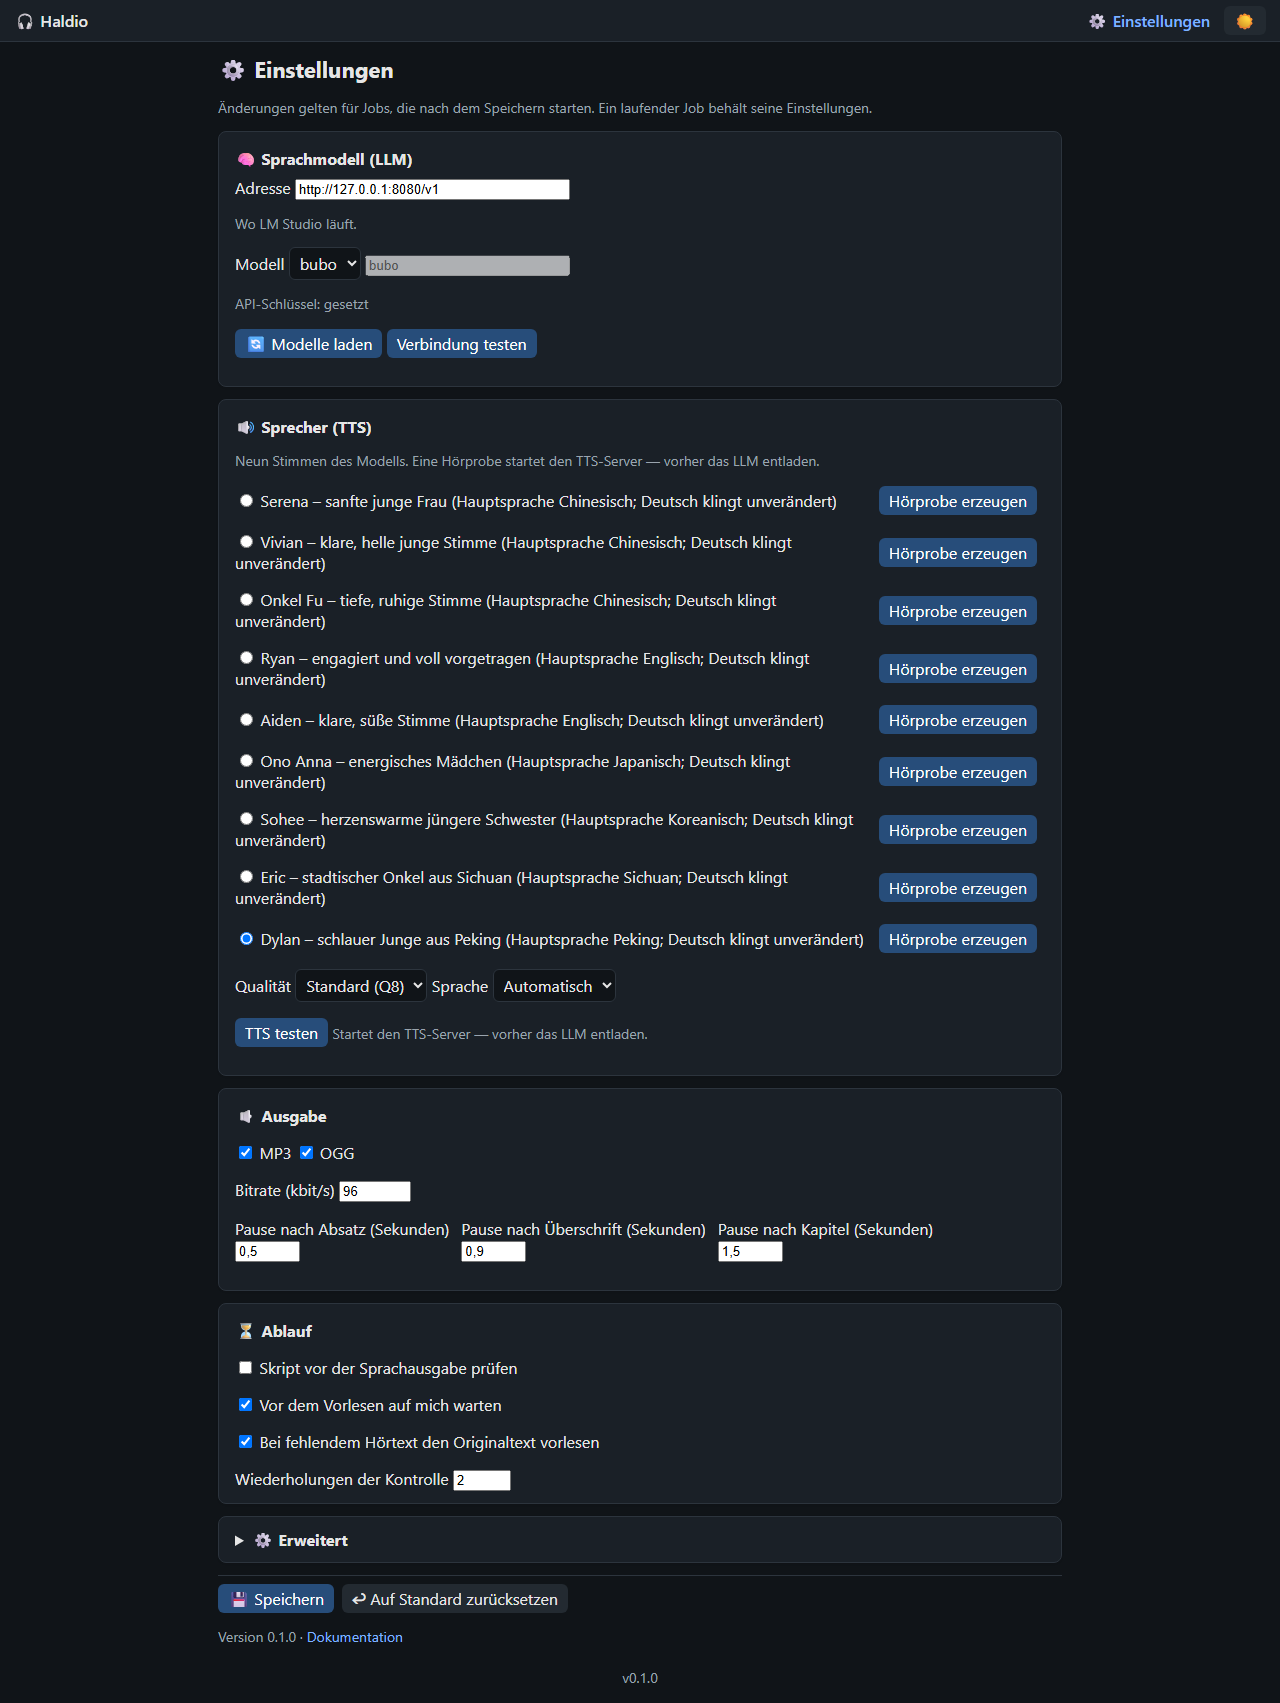
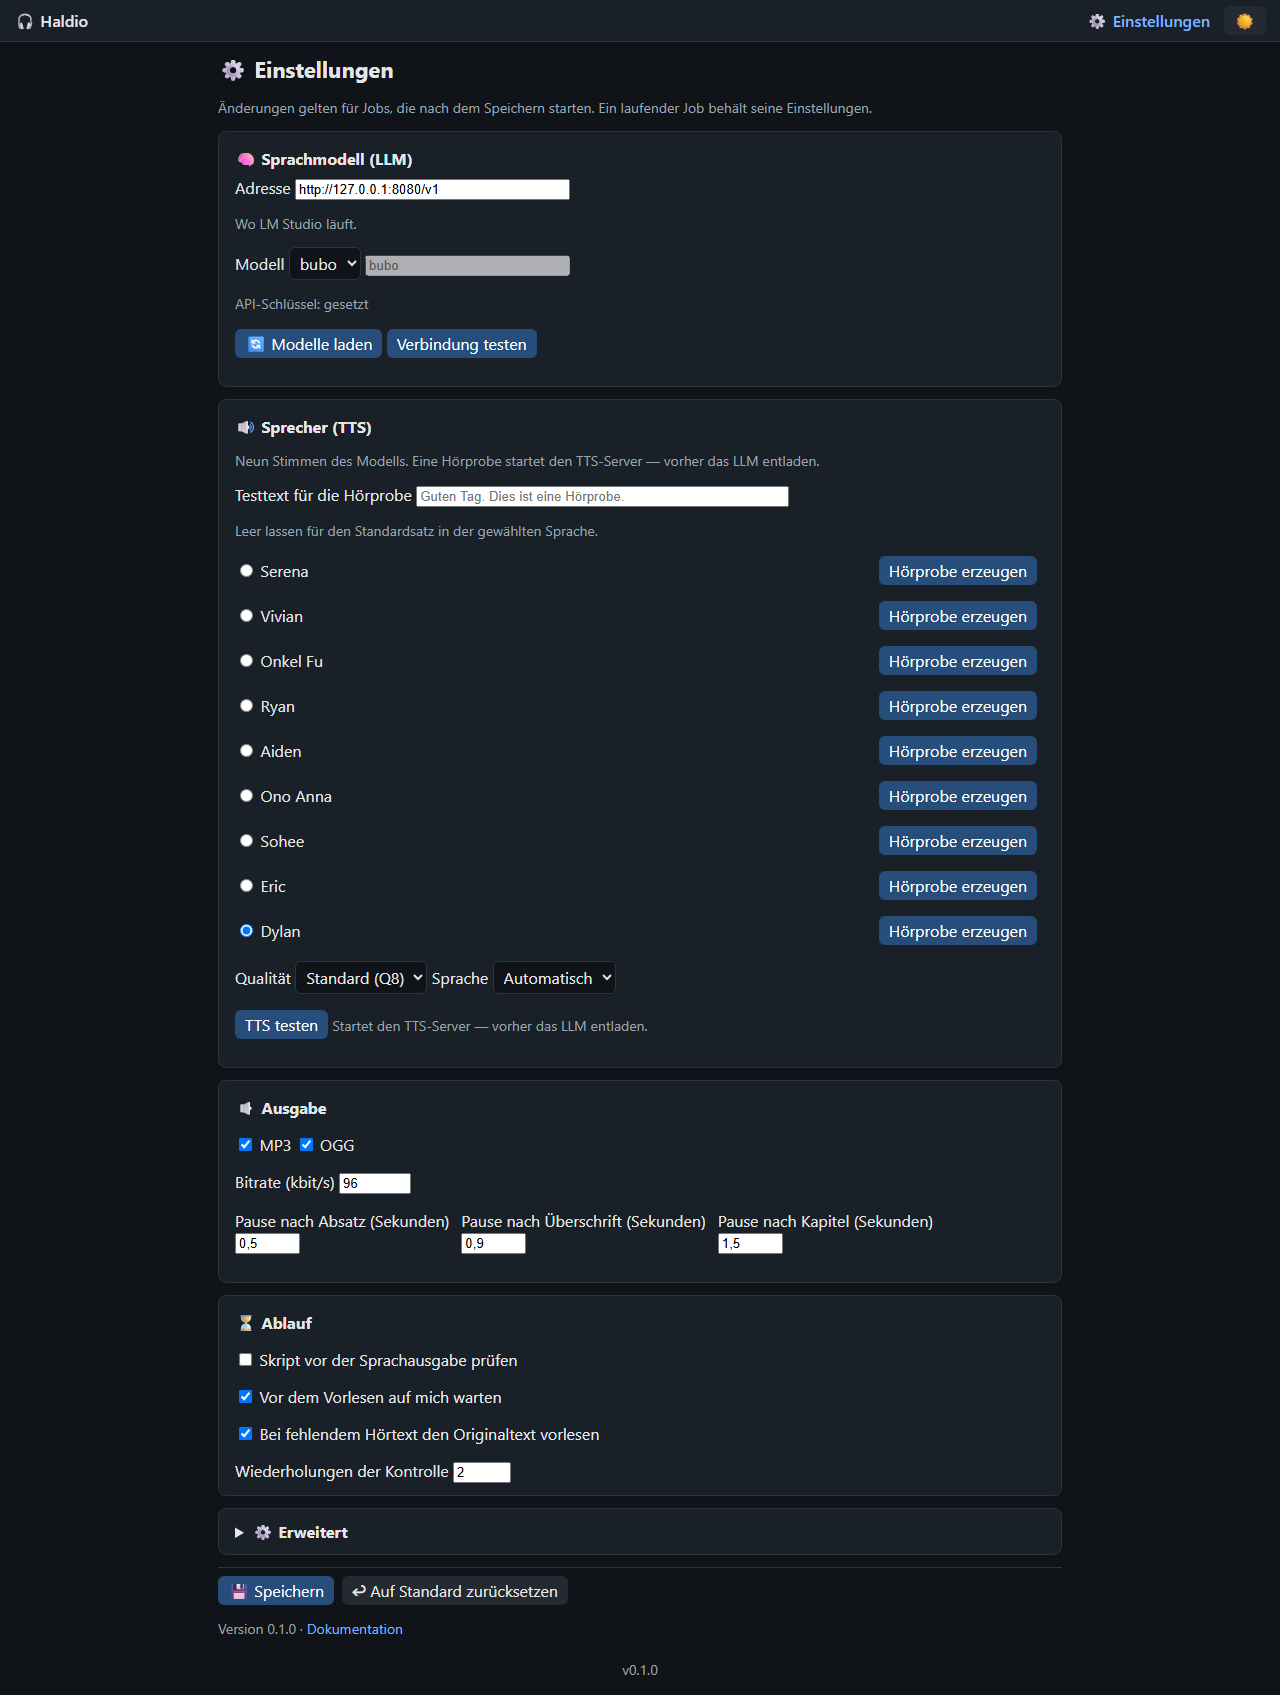
docs: owner package notes - README user details, PROGRESS states, fresh screenshots

diff --git a/docs/PROGRESS.md b/docs/PROGRESS.md
@@ -421,3 +421,37 @@ became a time-shifted process.
   output shown as lowercase "mp3".
 
 Stop - waiting for the owner's OK on the screenshots.
+
+
+## Owner package 2026-11-21 - settings probes, old findings, batch upload
+
+- Hörprobe test text: done - `POST /settings/sample` takes `text` + `language`;
+  blank text uses the default sentence of the selected language (`_PROBE_TEXTS`),
+  entered text is collapsed and capped at 200 chars; settings card has the field
+  "Testtext für die Hörprobe". Proof: `test_settings_sample_uses_the_test_text`,
+  `test_settings_sample_language_falls_back_to_default_text`.
+- Voices show names only: done - `speaker_rows` returns the plain label; the
+  description text ("Hauptsprache … Deutsch klingt unverändert") is gone from the
+  page. Proof: `test_settings_speaker_card_lists_nine_speakers` (asserts
+  "Hauptsprache" NOT in page).
+- Probe follows the selected Sprache: done - the language from the Sprache select
+  goes to `backend.synthesize` (was hardcoded "de"). Proof: same two sample tests.
+- Old finding `_STAGE_LABELS`: resolved - worker.py derives `_STAGE_LABELS =
+  dict(STAGES)` from `haldio.web.labels` (one source, no drift).
+- Old finding gate button too early: resolved - the continue form renders only when
+  the hint says "Weiter" or "Erneut prüfen" (hidden during the automatic 5-s
+  re-check). Proof: `test_gate_button_offered_only_after_the_ask`.
+- Old findings "mp3 lowercase" and "app.py split": discarded - the download labels
+  come from `_FILE_SLOTS` ("MP3", "OGG") and are already uppercase; the split is a
+  style-only change deferred until the next structural work (owner delegated the
+  call: "loesen oder verwerfen je nach notwendigkeit").
+- Stapelfunktion (batch upload): done - `/upload` accepts several PDFs at once
+  (input `multiple`, drop works too); ALL files are read and validated before the
+  first job is created, each file gets its own job (own options copy) and all jobs
+  run through the FIFO queue; a batch redirects to the library, a single file keeps
+  its job-page redirect. The ready2tts pool + "Alle TTS starten" converts the whole
+  prepared stack afterwards. Proof: `test_upload_batch_creates_one_job_per_pdf`,
+  `test_upload_batch_rejects_when_one_file_is_no_pdf`.
+- Screenshots regenerated after the settings changes (names-only rows, test-text
+  field). Reviewer: implementation-reviewer accepted the package; both justified
+  changes (drop dead voice description fields, copy options per job) applied.

diff --git a/README.md b/README.md
@@ -52,10 +52,12 @@ Open http://127.0.0.1:8505 (German user interface).
 
 ## Web interface
 
-- **Bücherei** — upload card with drag & drop, language and voice choice and the
-  "Skript vor der Sprachausgabe prüfen" option; the job list shows title, file,
-  pages, audio length, date, a German status badge and progress, newest first.
-  A banner counts jobs waiting in the ready2tts pool ("Alle TTS starten").
+- **Bücherei** — upload card with drag & drop: pick or drop several PDFs at once
+  (batch), choose language and voice and the "Skript vor der Sprachausgabe prüfen"
+  option; every file becomes its own job and the queue prepares them one by one.
+  The job list shows title, file, pages, audio length, date, a German status badge
+  and progress, newest first. A banner counts jobs waiting in the ready2tts pool
+  ("Alle TTS starten").
 - **Job page** — a seven-stage stepper (Einlesen → … → Audio fertigstellen) with state text,
   progress bar ("Gesamt N %") and a "Gerade:" box that explains the current step and shows
   the live detail from a single activity record; while the editor LLM writes it reports
@@ -80,7 +82,9 @@ Open http://127.0.0.1:8505 (German user interface).
 - **Einstellungen** — the full settings page: readable groups with German names, edits
   are validated (bitrate, pauses…), saving writes `data/settings.local.yaml` ("Auf
   Standard zurücksetzen" removes it), the LM Studio card lists models and marks the
-  loaded ones, "Test LM Studio" and "Test TTS"
+  loaded ones, the speaker card lists the nine voices by name and "Hörprobe erzeugen"
+  speaks the optional test text ("Testtext für die Hörprobe") in the selected language,
+  "Test LM Studio" and "Test TTS"
   show a spinner and a clear result next to the button (TTS respects the model
   guard: the LLM must be unloaded first).
 - Light and dark theme (system preference, switchable, remembered). The top bar sticks
